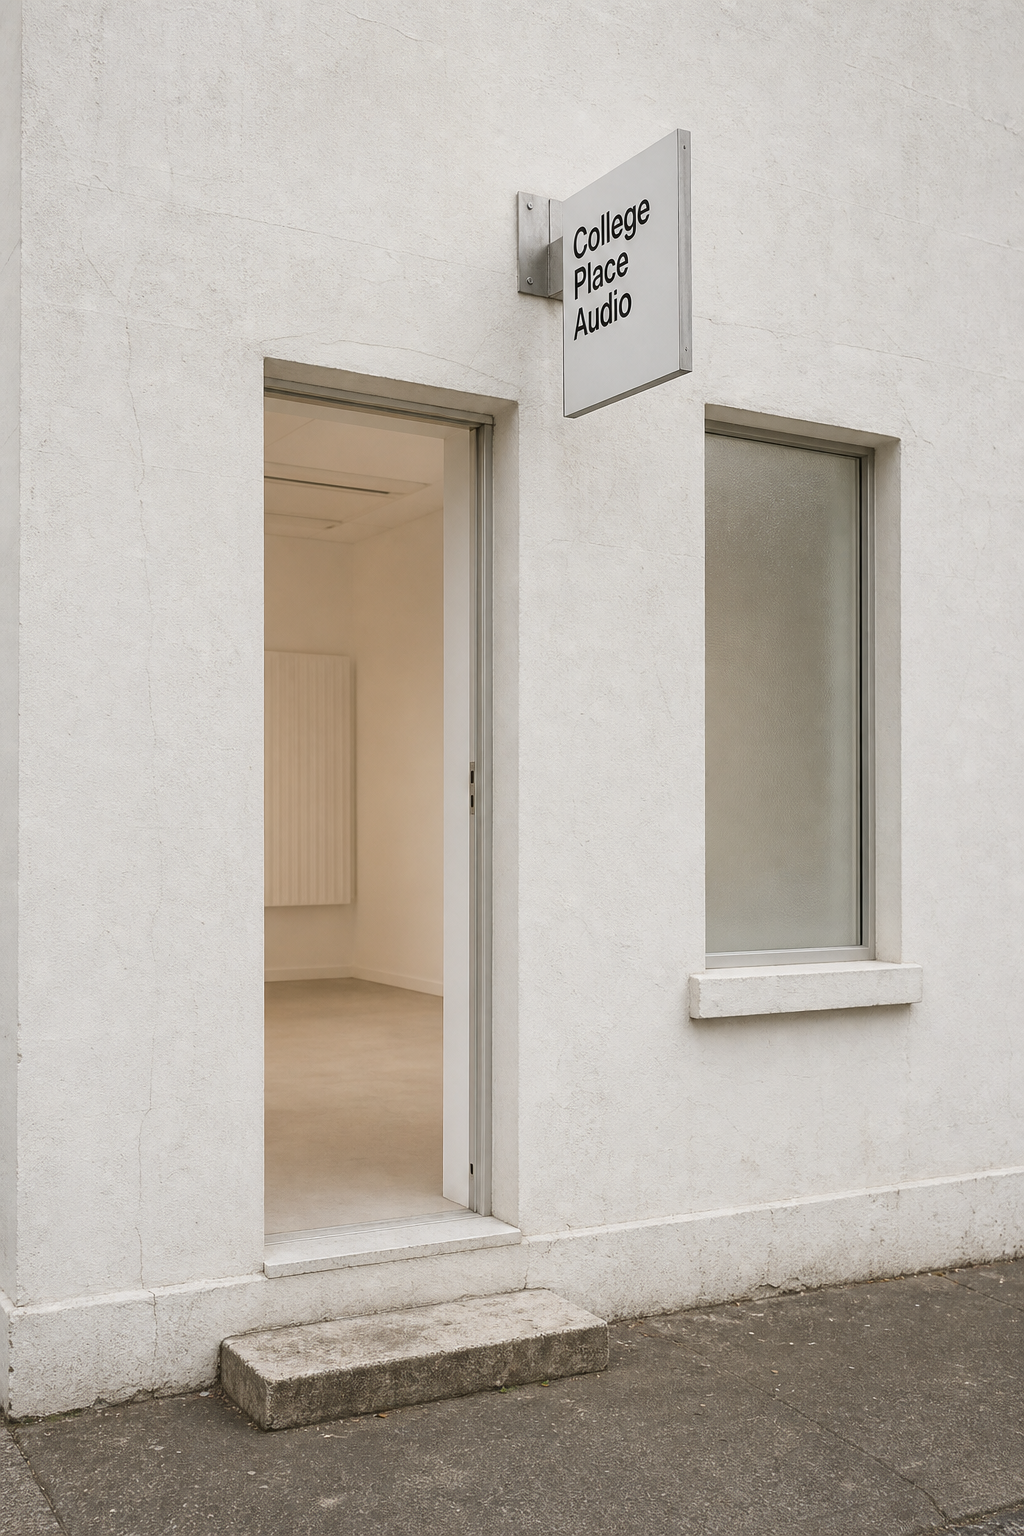
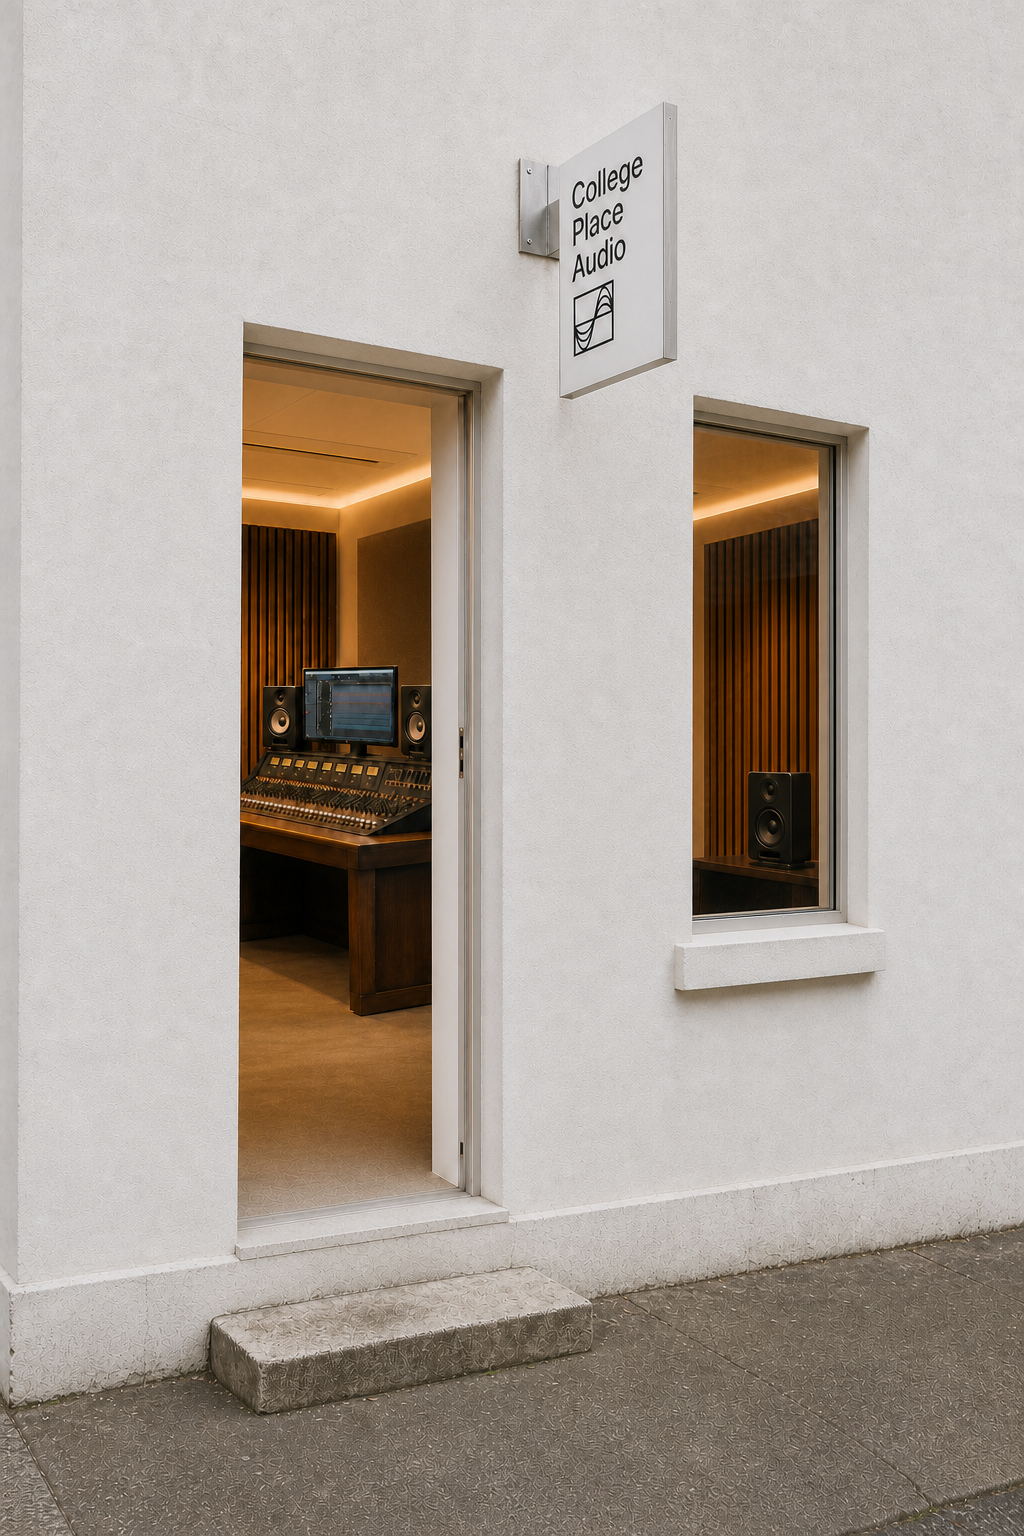
Update site content and work portfolio

Changed region(s): [[0.0, 0.0625, 1.0, 1.0]]

diff --git a/index.html b/index.html
@@ -92,66 +92,87 @@
       aria-hidden="true"
     >
       <div class="work-page__header">
-        <p class="eyebrow">Selected syncs</p>
+        <p class="eyebrow">Selected work</p>
         <h2 id="work-title">Work.</h2>
         <p>
-          Music placed across film, commercial, and television. A growing archive
-          of picture-led moments, cues, and songs.
+          Selected projects across film, commercial, and television, presented
+          through project stills, details, and credits.
         </p>
       </div>
 
       <div class="work-grid" aria-label="Selected College Place Audio sync work">
         <article class="work-card">
-          <div class="work-card__media work-card__media--video">
-            <span>Film clip</span>
-          </div>
+          <figure class="work-card__media">
+            <img
+              src="assets/the-big-squeeze.jpg"
+              alt="The Big Squeeze: The Inside Story of GameStop poster"
+              loading="lazy"
+            />
+          </figure>
           <div class="work-card__body">
-            <p class="work-card__type">Film</p>
-            <h3>Feature / short film placement</h3>
-            <p>
-              Replace this with a short video excerpt from a film sync, trailer,
-              or scene where the song is featured.
+            <p class="work-card__type">Film · Documentary</p>
+            <h3>The Big Squeeze</h3>
+            <p class="work-card__summary">
+              The incredible stories of those caught up in the GameStop short
+              squeeze, and a cautionary tale about markets divorced from the
+              real economy.
             </p>
-            <div class="audio-placeholder" aria-label="Audio clip placeholder">
-              <span>Audio clip</span>
-              <span>00:00</span>
-            </div>
+            <dl class="work-card__credits">
+              <div>
+                <dt>Production</dt>
+                <dd>VICE TV</dd>
+              </div>
+              <div>
+                <dt>Featured music</dt>
+                <dd>College Place Audio</dd>
+              </div>
+            </dl>
+            <a
+              class="work-card__link"
+              href="https://www.vicetv.com/en_us/video/the-big-squeeze-gamestop-reddit-and-an-economic-disaster/615724854bc307420e45bb21"
+              target="_blank"
+              rel="noreferrer"
+            >
+              <span>Project source</span>
+              <span>VICE TV ↗</span>
+            </a>
           </div>
         </article>
 
         <article class="work-card">
-          <div class="work-card__media work-card__media--video">
-            <span>Commercial clip</span>
-          </div>
+          <figure class="work-card__media">
+            <img
+              src="assets/tiny-pretty-things.jpg"
+              alt="Tiny Pretty Things Netflix series poster"
+              loading="lazy"
+            />
+          </figure>
           <div class="work-card__body">
-            <p class="work-card__type">Commercial</p>
-            <h3>Brand campaign placement</h3>
-            <p>
-              A space for commercial spots, campaign films, or product launches
-              featuring College Place Audio syncs.
+            <p class="work-card__type">Television · Drama series</p>
+            <h3>Tiny Pretty Things</h3>
+            <p class="work-card__summary">
+              A new arrival at an elite ballet academy is pulled into a world
+              of ambition, rivalry, and dangerous secrets.
             </p>
-            <div class="audio-placeholder" aria-label="Audio clip placeholder">
-              <span>Audio clip</span>
-              <span>00:00</span>
-            </div>
-          </div>
-        </article>
-
-        <article class="work-card">
-          <div class="work-card__media work-card__media--video">
-            <span>TV clip</span>
-          </div>
-          <div class="work-card__body">
-            <p class="work-card__type">Television</p>
-            <h3>Series / episode placement</h3>
-            <p>
-              Use this for network, streaming, documentary, or unscripted
-              television placements.
-            </p>
-            <div class="audio-placeholder" aria-label="Audio clip placeholder">
-              <span>Audio clip</span>
-              <span>00:00</span>
-            </div>
+            <dl class="work-card__credits">
+              <div>
+                <dt>Production</dt>
+                <dd>Netflix</dd>
+              </div>
+              <div>
+                <dt>Featured music</dt>
+                <dd>College Place Audio</dd>
+              </div>
+            </dl>
+            <a
+              class="work-card__link"
+              href="https://www.netflix.com/title/81017308"
+              target="_blank"
+              rel="noreferrer"
+            >
+              <span>Project source</span>
+              <span>Netflix ↗</span>
+            </a>
           </div>
         </article>
       </div>
@@ -176,9 +197,13 @@
           <span>Email</span>
           <span>hello@collegeplaceaudio.com</span>
         </a>
-        <a href="https://instagram.com/" target="_blank" rel="noreferrer">
+        <a
+          href="https://www.instagram.com/collegeplaceaudio/"
+          target="_blank"
+          rel="noreferrer"
+        >
           <span>Instagram</span>
-          <span>Coming soon</span>
+          <span>@collegeplaceaudio</span>
         </a>
         <a href="#work">
           <span>Catalogue</span>

diff --git a/styles.css b/styles.css
@@ -153,7 +153,7 @@ textarea {
   width: 100%;
   height: 100%;
   object-fit: cover;
-  object-position: center 31%;
+  object-position: center top;
   filter: saturate(0.72) contrast(0.96);
   transition: transform 1.1s cubic-bezier(0.2, 0.75, 0.25, 1), filter 0.8s ease;
 }
@@ -310,53 +310,41 @@ textarea {
 }
 
 .work-grid {
-  display: grid;
-  grid-template-columns: repeat(3, minmax(0, 1fr));
-  gap: clamp(18px, 2vw, 34px);
+  max-width: 1280px;
 }
 
 .work-card {
-  display: flex;
-  min-height: 100%;
-  flex-direction: column;
+  display: grid;
+  grid-template-columns: minmax(260px, 0.72fr) minmax(340px, 1fr);
+  gap: clamp(28px, 4vw, 72px);
+  padding-top: 12px;
   border-top: 2px solid currentColor;
 }
 
+.work-card + .work-card {
+  margin-top: clamp(64px, 8vw, 120px);
+}
+
 .work-card__media {
-  position: relative;
-  display: grid;
-  place-items: center;
-  aspect-ratio: 4 / 3;
-  margin-top: 12px;
+  aspect-ratio: 1 / 1;
+  margin: 0;
   overflow: hidden;
-  background:
-    linear-gradient(rgba(17, 17, 17, 0.06), rgba(17, 17, 17, 0.06)),
-    url("assets/college-place-exterior.png") center / cover;
-  color: var(--paper);
-  filter: grayscale(0.95) contrast(1.1);
+  background: #111111;
 }
 
-.work-card__media::after {
-  content: "";
-  position: absolute;
-  inset: 0;
-  background:
-    radial-gradient(circle at 35% 28%, transparent 0 1px, rgba(248, 248, 246, 0.12) 1px 2px),
-    rgba(17, 17, 17, 0.28);
-  background-size: 5px 5px, auto;
-  mix-blend-mode: overlay;
-  pointer-events: none;
+.work-card__media img {
+  display: block;
+  width: 100%;
+  height: 100%;
+  object-fit: cover;
 }
 
-.work-card__media span {
-  position: relative;
-  z-index: 1;
-  padding: 8px 10px;
-  border: 1px solid currentColor;
-  font-size: clamp(13px, 1vw, 16px);
-  letter-spacing: -0.03em;
-  line-height: 1;
-  text-transform: uppercase;
+.work-card__media img[src$="the-big-squeeze.jpg"] {
+  object-position: center top;
+}
+
+.work-card__media img[src$="tiny-pretty-things.jpg"] {
+  object-position: center 42%;
 }
 
 .work-card__body {
@@ -375,31 +363,60 @@ textarea {
 
 .work-card h3 {
   margin: 0;
-  font-size: clamp(30px, 3vw, 58px);
+  font-size: clamp(46px, 5vw, 88px);
   font-weight: 600;
   letter-spacing: -0.075em;
   line-height: 0.84;
 }
 
-.work-card__body > p:not(.work-card__type) {
-  max-width: 28ch;
+.work-card__summary {
+  max-width: 34ch;
   margin: 18px 0 28px;
   font-size: clamp(15px, 1.1vw, 19px);
   letter-spacing: -0.035em;
   line-height: 1.05;
 }
 
-.audio-placeholder {
+.work-card__credits {
+  margin: 0 0 28px;
+}
+
+.work-card__credits div,
+.work-card__link {
   display: flex;
   justify-content: space-between;
   gap: 14px;
-  margin-top: auto;
   padding: 12px 0 10px;
   border-top: 1px solid currentColor;
-  border-bottom: 1px solid currentColor;
   font-size: 14px;
   line-height: 1;
+}
+
+.work-card__credits div:last-child,
+.work-card__link {
+  border-bottom: 1px solid currentColor;
+}
+
+.work-card__credits dt,
+.work-card__credits dd {
+  margin: 0;
+}
+
+.work-card__credits dt,
+.work-card__link {
   text-transform: uppercase;
+}
+
+.work-card__link {
+  margin-top: auto;
+  text-decoration: none;
+}
+
+.work-card__link:hover,
+.work-card__link:focus-visible {
+  background: var(--ink);
+  color: var(--paper);
+  outline: 0;
 }
 
 .portal-page {
@@ -821,8 +838,12 @@ textarea {
   }
 
   .work-grid {
+    max-width: none;
+  }
+
+  .work-card {
     grid-template-columns: 1fr;
-    gap: 46px;
+    gap: 24px;
   }
 
   .portal-login h2,
@@ -849,10 +870,15 @@ textarea {
 @media (max-width: 540px) {
   :root {
     --gutter: 18px;
+    --panel-rail: 72px;
   }
 
   .landing {
     padding-top: 18px;
+  }
+
+  body.has-active-panel .brand {
+    z-index: 3;
   }
 
   .brand {

diff --git a/script.js b/script.js
@@ -1,4 +1,5 @@
 const menuToggle = document.querySelector('.menu-toggle');
+const landing = document.querySelector('.landing');
 const primaryNav = document.querySelector('.primary-nav');
 const brandHome = document.querySelector('.brand__home');
 const pagePanels = Array.from(document.querySelectorAll('.page-panel'));
@@ -61,6 +62,11 @@ function setActivePanel(id) {
 
 function updatePanelFromHash() {
   setActivePanel(window.location.hash.replace('#', ''));
+}
+
+function closeActivePanel() {
+  history.pushState('', document.title, window.location.pathname);
+  setActivePanel('');
 }
 
 function getPortalData() {
@@ -275,8 +281,14 @@ menuToggle.addEventListener('click', () => {
 
 brandHome.addEventListener('click', (event) => {
   event.preventDefault();
-  history.pushState('', document.title, window.location.pathname);
-  setActivePanel('');
+  closeActivePanel();
+});
+
+landing.addEventListener('click', (event) => {
+  if (!document.body.classList.contains('has-active-panel')) return;
+  if (event.target.closest('a, button')) return;
+
+  closeActivePanel();
 });
 
 window.addEventListener('hashchange', updatePanelFromHash);
@@ -351,8 +363,7 @@ document.addEventListener('keydown', (event) => {
   }
 
   if (event.key === 'Escape' && document.body.classList.contains('has-active-panel')) {
-    history.pushState('', document.title, window.location.pathname);
-    setActivePanel('');
+    closeActivePanel();
   }
 });
 
